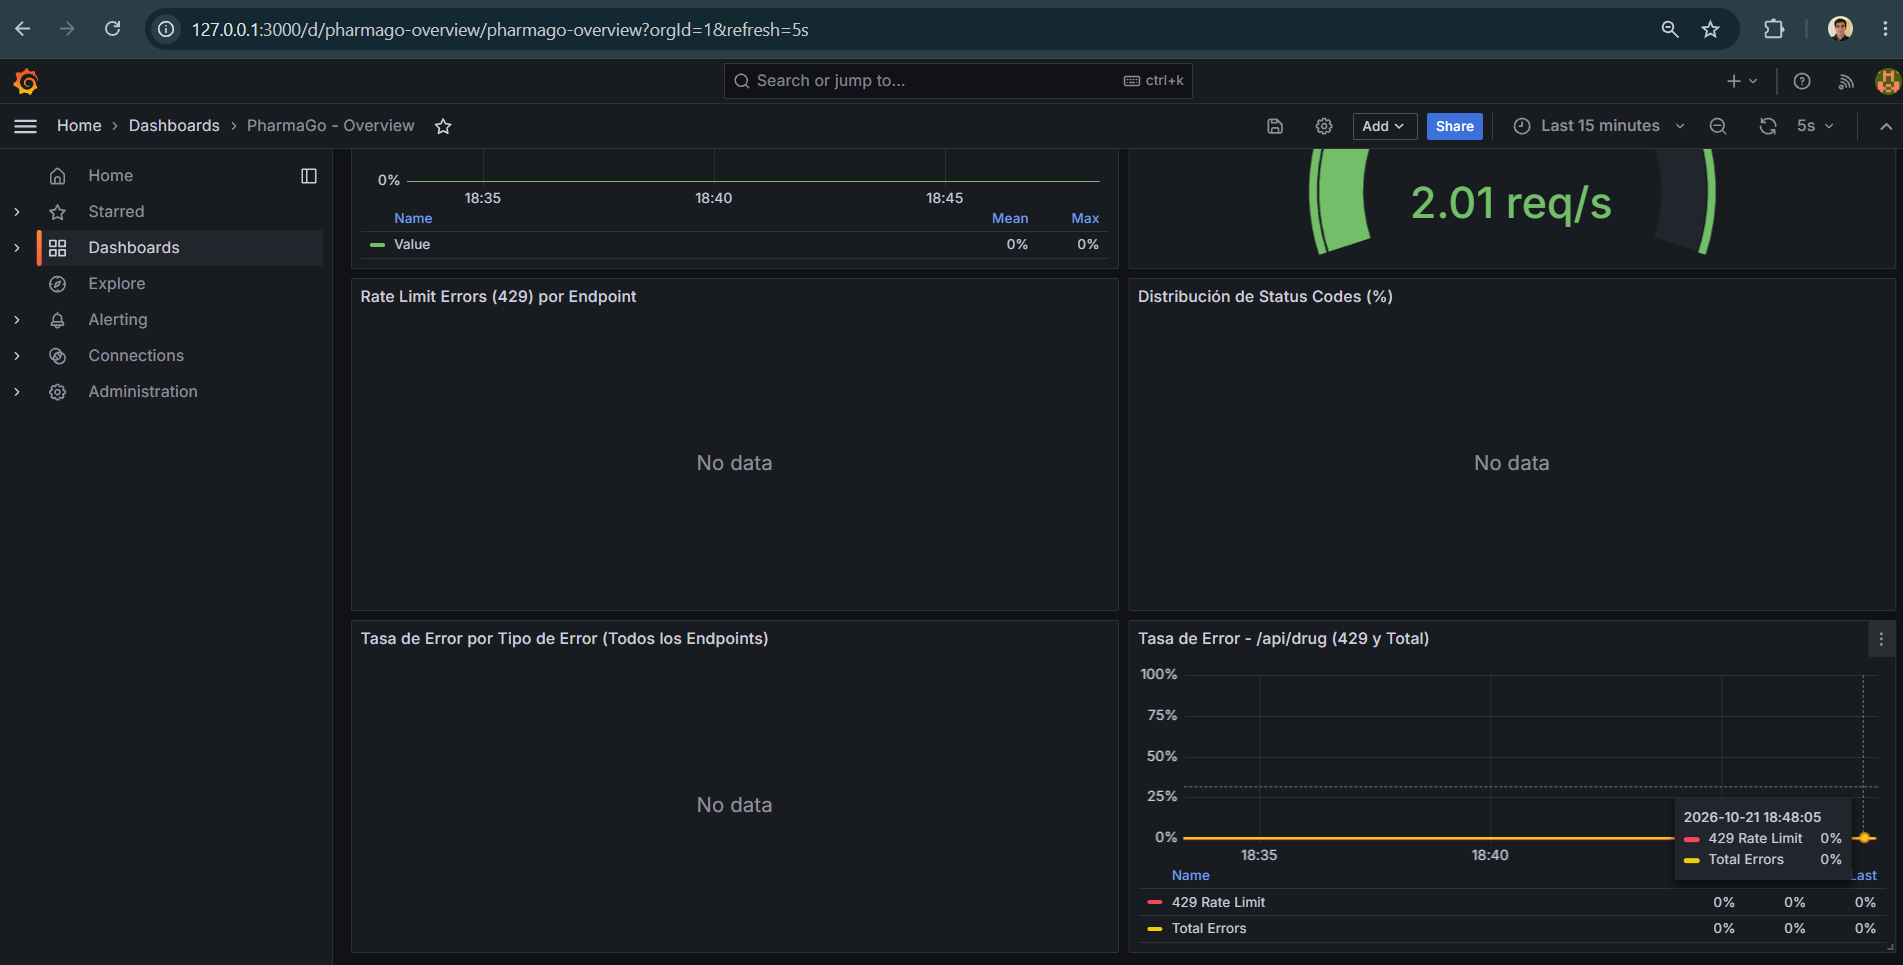
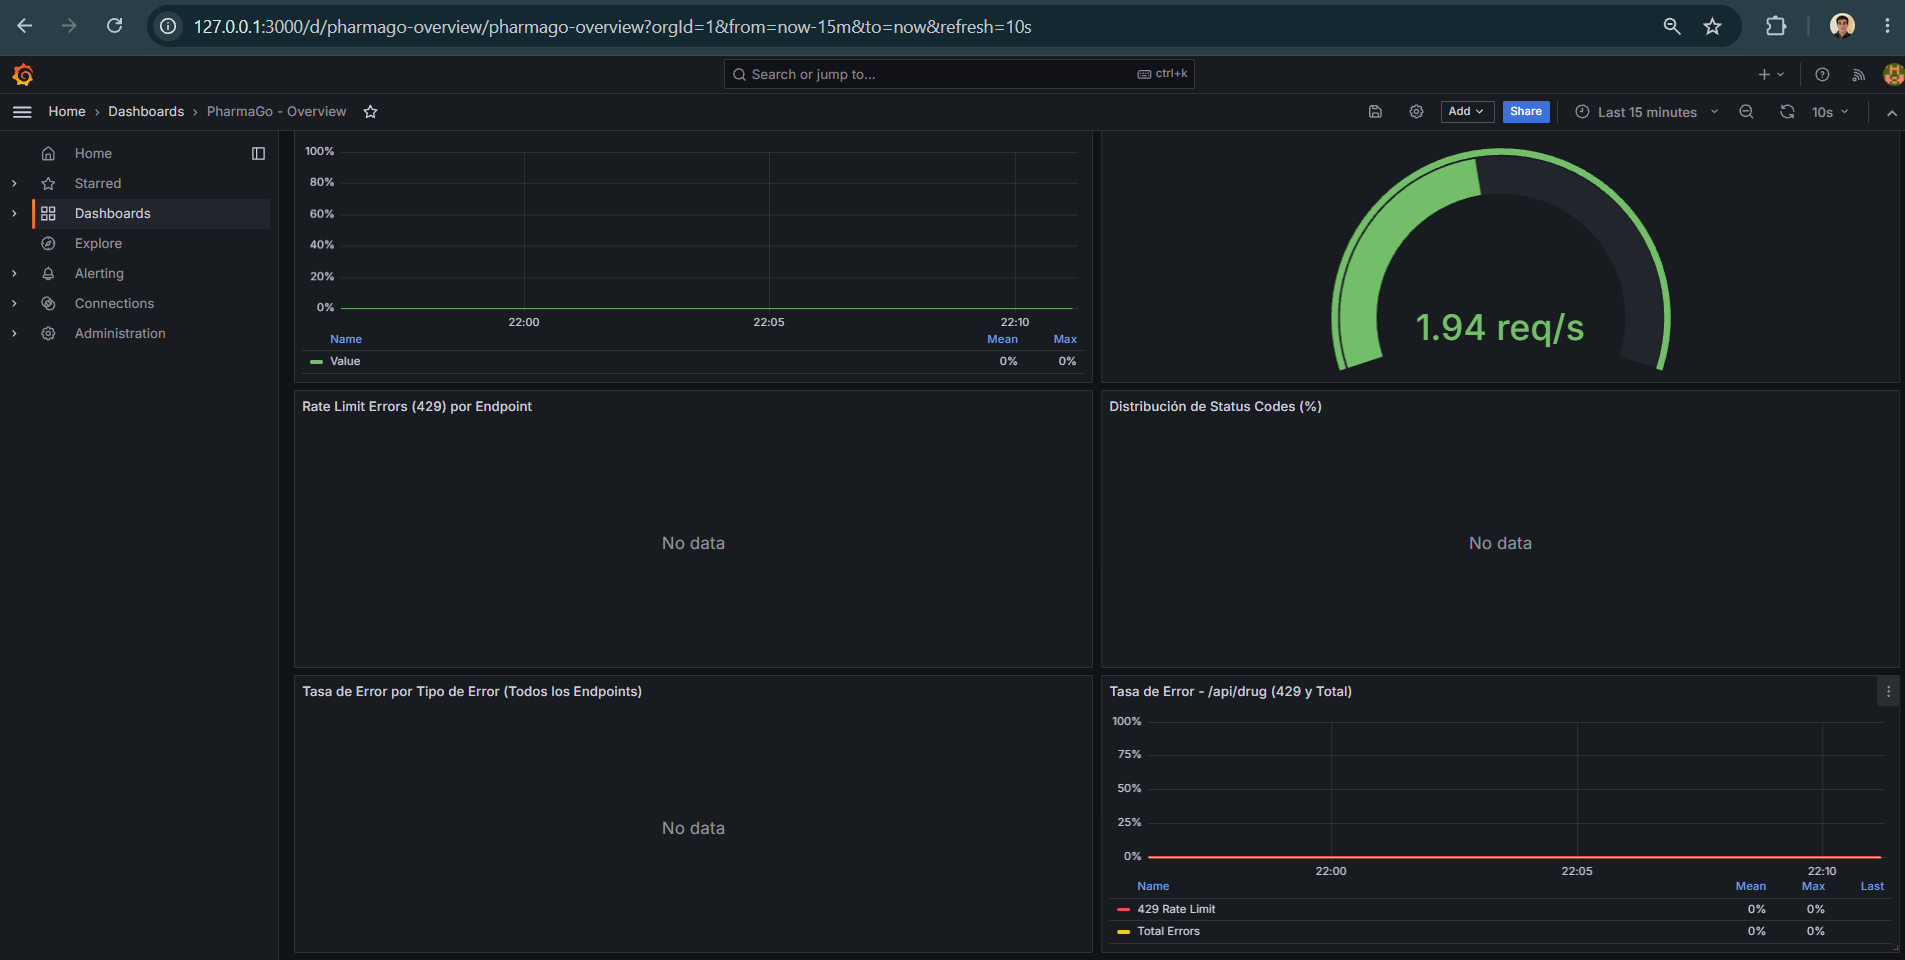
docs(evidencia): refresh baseline, item 1 and item 3 evidence
Retake the baseline captures and reference metrics, the nodes and pods capture for item 1 and the zero-downtime rollout run for item 3 (192 requests, 0 failed) on the reference five-node topology, and update the index accordingly.

diff --git a/docs/evidencia/README.md b/docs/evidencia/README.md
@@ -25,17 +25,17 @@ Capturas y salidas de terminal que respaldan cada ítem de la rúbrica. Cada car
 
 ### 00 · Línea base
 
-Versión: `main` en `6b996db`. Incluye los ítems 1 (plataforma multinodo) y 3 (2 réplicas por microservicio y rolling update sin caída), pero todavía no los cambios de telemetría, circuit breaker, caos ni detección de anomalías. Sirve de referencia del estado normal para esos ítems; no sirve como "antes" de los ítems 1 y 3.
+Versión: ítems 1 y 3 aplicados (2 réplicas por microservicio y rolling update sin caída), antes de los cambios de telemetría, circuit breaker, caos y detección de anomalías. Sirve de referencia del estado normal para esos ítems.
 
-Tráfico durante las capturas: un pod dentro del cluster hace una request cada 4 s al gateway, rotando entre `/api/drug`, `/api/pharmacy` y `/test-health`.
+Tráfico durante las capturas (21:46 a 22:04): un pod dentro del cluster hace una request cada 4 s al gateway, rotando entre `/api/drug`, `/api/pharmacy` y `/test-health`.
 
-La topología del cluster en esta versión (nodos y pods) está en [01-plataforma/01-nodos-y-pods.png](01-plataforma/01-nodos-y-pods.png).
+La topología del cluster (nodos y pods) está en [01-plataforma/01-nodos-y-pods.png](01-plataforma/01-nodos-y-pods.png).
 
 | Archivo | Qué muestra | Fecha |
 |---|---|---|
-| [01-grafana-overview-superior.png](00-linea-base/01-grafana-overview-superior.png) | Dashboard *PharmaGo - Overview*: peticiones por segundo, latencia promedio, tasa de error (0 %) y throughput total. `/health` tiene la mayor tasa porque incluye las probes de Kubernetes. | 2026-10-21 |
+| [01-grafana-overview-superior.png](00-linea-base/01-grafana-overview-superior.png) | Dashboard *PharmaGo - Overview*: peticiones por segundo, latencia promedio, tasa de error (0 %) y throughput total. `/health` tiene la mayor tasa porque incluye las probes de Kubernetes. La latencia de `/api/drug` arranca en ~25 ms y baja en pocos minutos: son las primeras consultas que reciben los pods de pharmacy. | 2026-10-21 |
 | [02-grafana-overview-inferior.png](00-linea-base/02-grafana-overview-inferior.png) | Resto del Overview: sin errores 429 ni errores en `/api/drug`. *Distribución de Status Codes* muestra "No data" por un error en la consulta del dashboard (divide series con y sin la etiqueta `status_code`); se corrige en el ítem 4. | 2026-10-21 |
-| [03-grafana-infra-pods.png](00-linea-base/03-grafana-infra-pods.png) | Dashboard *PharmaGo - Infra*: disco disponible, y CPU y memoria por pod. Los paneles de nodo muestran una sola serie (`node-exporter:9100`) porque node-exporter se scrapea a través de un Service y mezcla los 4 nodos; se corrige en el ítem 4. | 2026-10-21 |
+| [03-grafana-infra.png](00-linea-base/03-grafana-infra.png) | Dashboard *PharmaGo - Infra* completo: CPU y memoria de nodo, disco disponible, y CPU y memoria por pod. Los paneles de nodo muestran una sola serie (`node-exporter:9100`) porque node-exporter se scrapea a través de un Service y mezcla los nodos; se corrige en el ítem 4. | 2026-10-21 |
 | [04-kibana-logs-backend.png](00-linea-base/04-kibana-logs-backend.png) | Logs del backend en Kibana (últimos 15 min). Todos son del gateway y están en texto plano con códigos de color de consola, no en JSON; users y pharmacy no registran logs por request. Ambas cosas se resuelven en el ítem 4. | 2026-10-21 |
 | [05-kibana-logs-pharmacy-json.png](00-linea-base/05-kibana-logs-pharmacy-json.png) | Logs de pharmacy (últimas 24 h): son JSON estructurado, por eso Kibana separa `LogLevel` y `Message` en campos. Solo aparecen los del arranque. | 2026-10-21 |
 | [06-metricas-linea-base.txt](00-linea-base/06-metricas-linea-base.txt) | Valores de referencia de los últimos 15 minutos sacados de Prometheus: tráfico, latencia promedio y p95 por endpoint, tasa de error, CPU y memoria de nodo y de cada pod del backend, con las consultas PromQL usadas. Sirve para fijar los umbrales de las alertas. | 2026-10-21 |
@@ -44,18 +44,17 @@ La topología del cluster en esta versión (nodos y pods) está en [01-plataform
 
 | Archivo | Qué muestra | Fecha |
 |---|---|---|
-| [01-nodos-y-pods.png](01-plataforma/01-nodos-y-pods.png) | Los 4 nodos con su rol (`node-type`: 1 `ops` y 3 `backend`) y todos los pods del namespace `pharmago`, con el nodo donde corre cada uno. Cada microservicio tiene sus 2 réplicas en un nodo propio. Cluster de 4 nodos (IPs `192.168.58.x`). | 2026-10-21 |
-| [02-diagrama-despliegue.png](01-plataforma/02-diagrama-despliegue.png) | Diagrama de despliegue generado desde [deployment-diagram.md](../../Implementacion%20K8S/Codigo/k8s/deployment-diagram.md): servicios, pods por nodo, DaemonSets y flujos de telemetría y logs. Muestra la ubicación observada en otro cluster del equipo, de 5 nodos (IPs `192.168.49.x`); por eso los nodos no coinciden con la captura anterior. En los dos se cumple la regla: cada microservicio en un nodo distinto. | 2026-10-21 |
+| [01-nodos-y-pods.png](01-plataforma/01-nodos-y-pods.png) | Los 5 nodos con su rol (`node-type`): `pharmago` (control-plane), `pharmago-m03` y `pharmago-m04` como `backend`, `pharmago-m02` como `ops` y `pharmago-m05` sin rol. Debajo, todos los pods del namespace `pharmago` con el nodo donde corre cada uno: cada microservicio tiene sus 2 réplicas en un nodo propio, como en el diagrama. | 2026-10-21 |
+| [02-diagrama-despliegue.png](01-plataforma/02-diagrama-despliegue.png) | Diagrama de despliegue generado desde [deployment-diagram.md](../../Implementacion%20K8S/Codigo/k8s/deployment-diagram.md): servicios, pods por nodo, DaemonSets y flujos de telemetría y logs. | 2026-10-21 |
 
 ### 03 · Despliegues seguros
 
-Técnica: rolling update (`maxSurge: 1`, `maxUnavailable: 0`, `minReadySeconds: 5`), `preStop` de 5 s, probes `httpGet /health` y warm-up de la base en pharmacy. La explicación está en [README-k8s.md, sección "Despliegue sin caída"](../../Implementacion%20K8S/Codigo/k8s/README-k8s.md#despliegue-sin-caída). Versión: `main` en `6b996db`, con el mismo tráfico de fondo que la línea base.
+Técnica: rolling update (`maxSurge: 1`, `maxUnavailable: 0`, `minReadySeconds: 5`), `preStop` de 5 s, probes `httpGet /health` y warm-up de la base en pharmacy. La explicación está en [README-k8s.md, sección "Despliegue sin caída"](../../Implementacion%20K8S/Codigo/k8s/README-k8s.md#despliegue-sin-caída). La prueba corrió con el mismo tráfico de fondo que la línea base.
 
 | Archivo | Qué muestra | Fecha |
 |---|---|---|
-| [01-test-zero-downtime.txt](03-despliegues-seguros/01-test-zero-downtime.txt) | Salida de `test-zero-downtime.sh` reemplazando gateway, users y pharmacy, uno tras otro: 164 requests, 0 fallidos (100 % de disponibilidad). | 2026-10-21 |
-| [02-pods-durante-rollout.txt](03-despliegues-seguros/02-pods-durante-rollout.txt) | Eventos de los pods del backend con la hora de cada cambio. En cada servicio, el pod nuevo queda `Ready` antes de que empiece a terminar uno viejo, siempre en el nodo de ese servicio. | 2026-10-21 |
-| [03-grafana-overview-rollout-superior.png](03-despliegues-seguros/03-grafana-overview-rollout-superior.png) | Overview durante los rollouts (18:45 a 18:47): el tráfico sigue sin cortes y la tasa de error se mantiene en 0 %. La latencia de `/api/drug` sube hasta ~35 ms mientras se reemplaza pharmacy, por las primeras consultas en los pods nuevos, sin errores. | 2026-10-21 |
+| [01-test-zero-downtime.txt](03-despliegues-seguros/01-test-zero-downtime.txt) | Salida de `test-zero-downtime.sh` reemplazando gateway, users y pharmacy, uno tras otro: 192 requests, 0 fallidos (100 % de disponibilidad). | 2026-10-21 |
+| [02-pods-durante-rollout.txt](03-despliegues-seguros/02-pods-durante-rollout.txt) | Eventos de los pods del backend con la hora de cada cambio. En cada servicio, el pod nuevo queda `Ready` antes de que empiece a terminar uno viejo, siempre en el nodo de ese servicio (gateway en `pharmago-m03`, users en `pharmago`, pharmacy en `pharmago-m04`). | 2026-10-21 |
+| [03-grafana-overview-rollout-superior.png](03-despliegues-seguros/03-grafana-overview-rollout-superior.png) | Overview durante los rollouts (22:07 a 22:10): el tráfico sigue sin cortes y la tasa de error se mantiene en 0 %. La latencia de `/api/drug` sube hasta ~29 ms mientras se reemplaza pharmacy, por las primeras consultas en los pods nuevos, sin errores. | 2026-10-21 |
 | [04-grafana-overview-rollout-inferior.png](03-despliegues-seguros/04-grafana-overview-rollout-inferior.png) | Resto del Overview: ni errores 429 ni errores en `/api/drug` durante los rollouts. | 2026-10-21 |
-| [05-grafana-infra-rollout-nodo.png](03-despliegues-seguros/05-grafana-infra-rollout-nodo.png) | Infra: CPU y memoria de nodo estables antes y durante los rollouts (serie única; ver la limitación en la línea base). | 2026-10-21 |
-| [06-grafana-infra-rollout-pods.png](03-despliegues-seguros/06-grafana-infra-rollout-pods.png) | Infra: disco, CPU y memoria por pod. Reemplazar los pods no genera picos de recursos. | 2026-10-21 |
+| [05-grafana-infra-rollout.png](03-despliegues-seguros/05-grafana-infra-rollout.png) | Dashboard *PharmaGo - Infra* durante los rollouts: CPU y memoria de nodo estables, y CPU y memoria por pod sin picos al reemplazar los pods. | 2026-10-21 |
